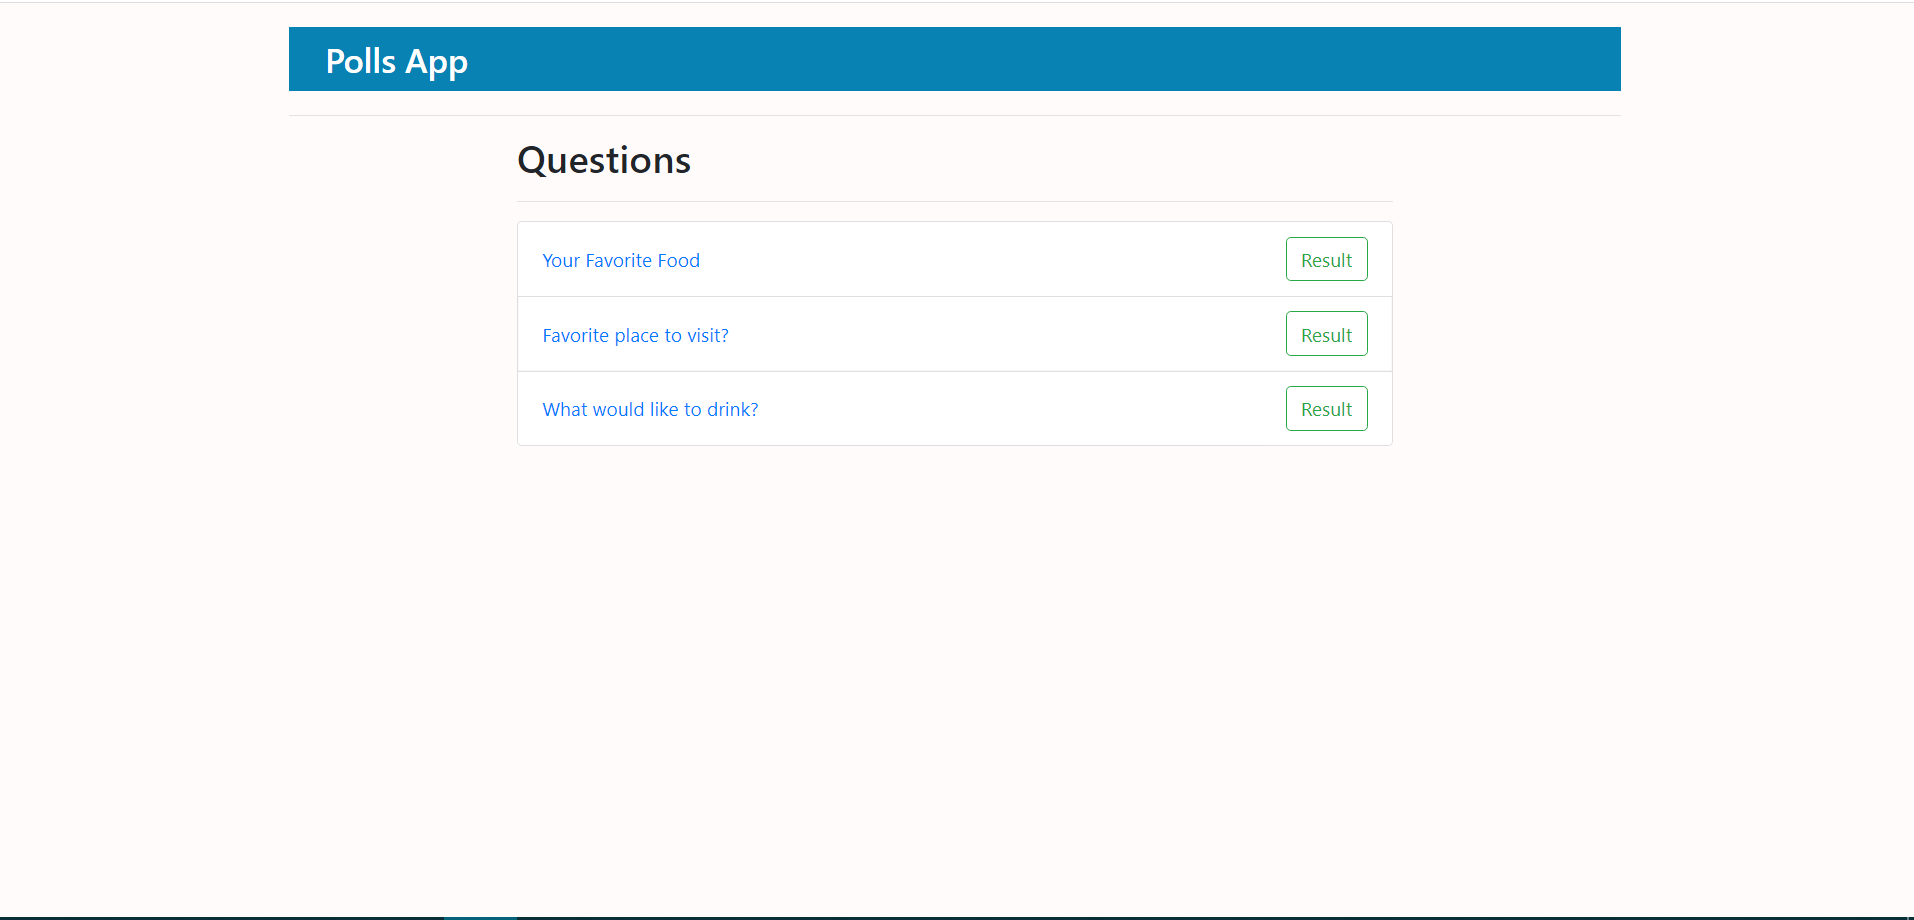
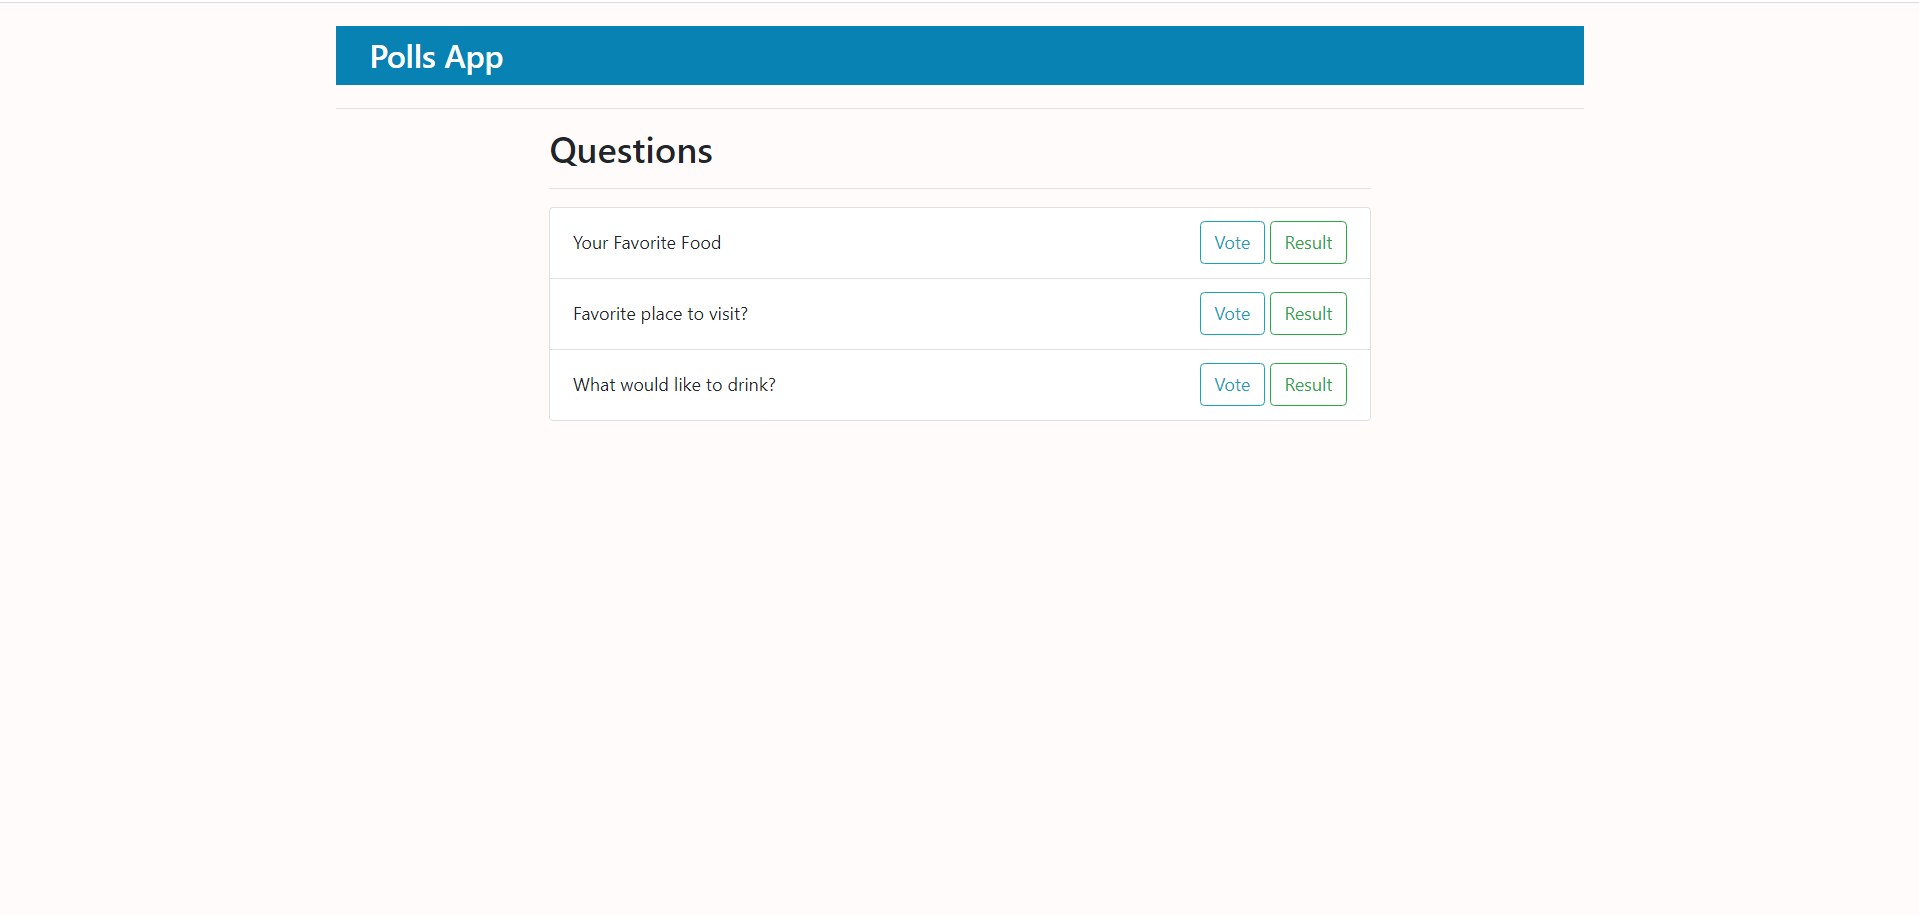
Upated home page

diff --git a/polls/templates/polls/index.html b/polls/templates/polls/index.html
@@ -8,8 +8,12 @@
     <ol class="list-group">
         {% for question in latest_question_list %}
         <li class="list-group-item d-flex justify-content-between align-items-center">
-            <a href="{% url 'polls:detail' question.id %}">{{ question.question_text }}</a>
-            <a class="btn btn-outline-success" href="{% url 'polls:results' question.id %}">Result</a>
+            {{ question.question_text }}
+            <div>
+                <a class="btn btn-outline-info" href="{% url 'polls:detail' question.id %}">Vote</a>
+                <a class="btn btn-outline-success" href="{% url 'polls:results' question.id %}">Result</a>
+            </div>
+
         </li>
         {% endfor %}
     </ol>
